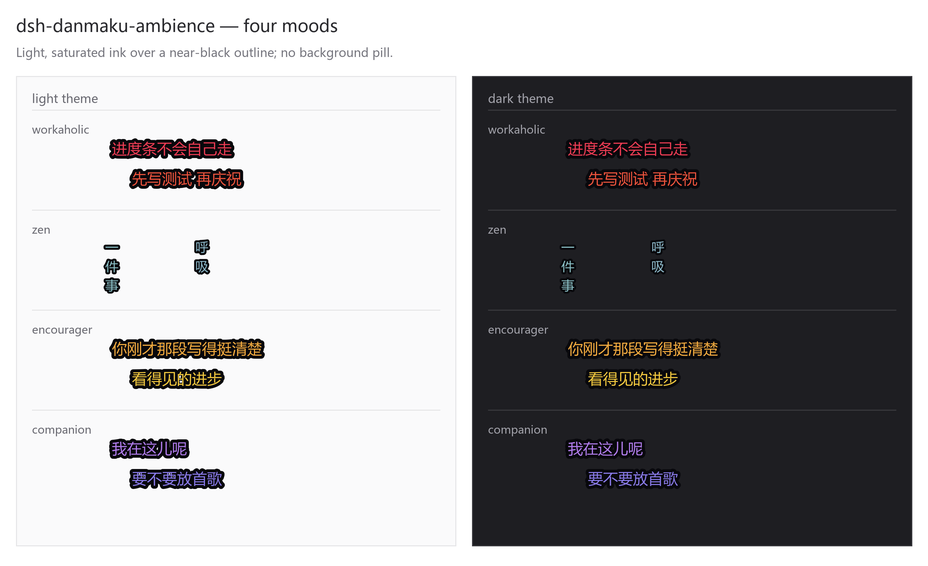
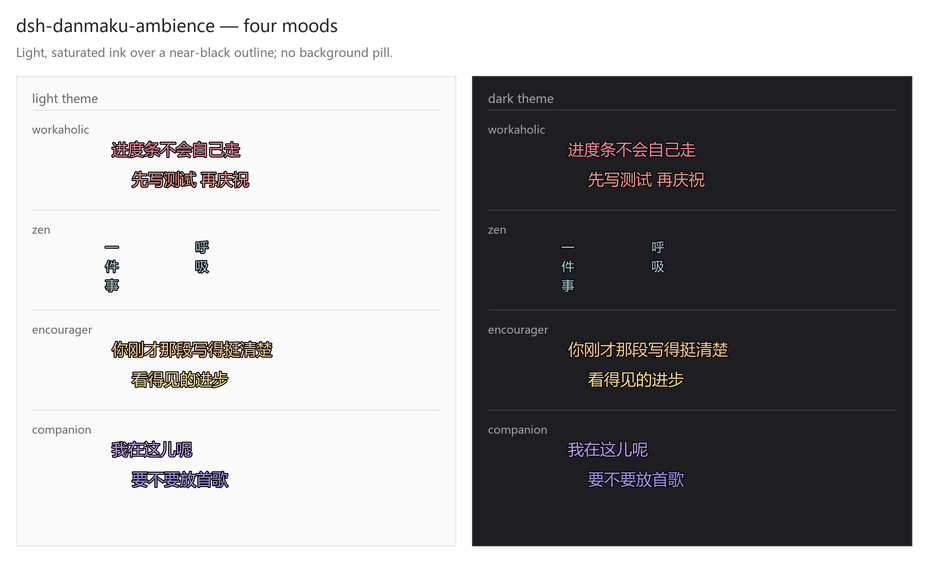
feat(1.0.1): legible ink, proportional stroke, leaner package
- ink lightness 58-70 -> 74-76, base size 15 -> 16px, workaholic 700 -> 600
- stroke: fixed 2.5px -> max(1px, 7.5% em); two-layer halo -> tight shadow
- default opacity .85 -> .92
- files: drop DESIGN.md, PUBLISH.md, catalog-entry.yml, preview.svg from the tarball
- regenerate preview.png/svg from the new values

diff --git a/client.js b/client.js
@@ -45,13 +45,13 @@ window.__ModuleLoader__.load({
         interval: 5000,
         lanes: 8,
         speed: 250,
-        fontSize: 15,
-        weight: 700,
+        fontSize: 16,
+        weight: 600,
         spacing: '0.01em',
         vertical: false,
         hues: [352, 8, 22, 340],
         sat: 82,
-        light: 58,
+        light: 74,
       },
       zen: {
         interval: 30000,
@@ -63,36 +63,36 @@ window.__ModuleLoader__.load({
         vertical: true,
         hues: [186, 196, 176],
         sat: 34,
-        light: 66,
+        light: 74,
       },
       encourager: {
         interval: 11000,
         lanes: 6,
         speed: 155,
-        fontSize: 15,
+        fontSize: 16,
         weight: 500,
         spacing: '0.02em',
         vertical: false,
         hues: [36, 46, 22, 100],
-        sat: 88,
-        light: 60,
+        sat: 86,
+        light: 74,
       },
       companion: {
         interval: 17000,
         lanes: 6,
         speed: 120,
-        fontSize: 15,
+        fontSize: 16,
         weight: 500,
         spacing: '0.03em',
         vertical: false,
         hues: [268, 248, 288, 216],
         sat: 72,
-        light: 70,
+        light: 76,
       },
     };
     const ORDER = ['workaholic', 'zen', 'encourager', 'companion'];
     // `scale` is a user multiplier on each mode's base font size.
-    const DEFAULT_STATE = { mode: 'encourager', density: 1, opacity: 0.85, scale: 1 };
+    const DEFAULT_STATE = { mode: 'encourager', density: 1, opacity: 0.92, scale: 1 };
     const DENSITY = { min: 0.4, max: 2.2, step: 0.1 };
     const OPACITY = { min: 0.2, max: 1, step: 0.05 };
     // Font scale: 0.7x .. 1.8x of the mode baseline, in 0.1 steps.
@@ -454,7 +454,10 @@ window.__ModuleLoader__.load({
         // `paint-order: stroke fill`; the blur is a halo that survives on
         // busy backgrounds such as code blocks.
         stroke: 'rgba(8,8,12,.92)',
-        glow: '0 0 3px rgba(0,0,0,.85), 0 0 8px rgba(0,0,0,.45)',
+        // One tight, barely-offset shadow instead of a wide two-layer blur: a
+        // big halo smears the glyph edge and reads as "blurry" at 15px, while
+        // the stroke already supplies the local backdrop.
+        glow: '0 1px 2px rgba(0,0,0,.55)',
       };
     }
 
@@ -859,11 +862,14 @@ window.__ModuleLoader__.load({
          transcript, gray sidebar, code blocks, or a dark theme. */
       .dmb-line{position:absolute;left:0;white-space:nowrap;
         color:var(--dmb-ink);
-        font-family:inherit;font-size:var(--dmb-size,15px);font-weight:var(--dmb-weight,500);
+        font-family:inherit;font-size:var(--dmb-size,16px);font-weight:var(--dmb-weight,500);
         letter-spacing:var(--dmb-spacing,0);line-height:1.45;
-        -webkit-text-stroke:2.5px var(--dmb-stroke,rgba(8,8,12,.92));
+        /* Proportional stroke: a fixed 2.5px ate ~17% of a 15px glyph, so the
+           fill read as a thin sliver. The ink is light now (L74), so the rim
+           only has to define the silhouette: ~7.5% of the em. */
+        -webkit-text-stroke:max(1px,calc(var(--dmb-size,16px) * .075)) var(--dmb-stroke,rgba(8,8,12,.92));
         paint-order:stroke fill;
-        text-shadow:var(--dmb-glow,0 0 3px rgba(0,0,0,.85));will-change:transform;
+        text-shadow:var(--dmb-glow,0 1px 2px rgba(0,0,0,.55));will-change:transform;
         animation-name:dmb-scroll;animation-timing-function:linear;animation-fill-mode:forwards}
       @keyframes dmb-scroll{
         0%{transform:translate3d(var(--dmb-from,100vw),0,0);opacity:0}
@@ -884,7 +890,7 @@ window.__ModuleLoader__.load({
       /* Punctuated zen copy (English) keeps its sentence shape as one line. */
       .dmb-run{white-space:nowrap;color:var(--dmb-ink);
         font-size:var(--dmb-size,13px);line-height:1.4;
-        -webkit-text-stroke:calc(var(--dmb-size,13px) * .1) var(--dmb-stroke,rgba(8,8,12,.82));
+        -webkit-text-stroke:max(.75px,calc(var(--dmb-size,13px) * .075)) var(--dmb-stroke,rgba(8,8,12,.82));
         paint-order:stroke fill;
         text-shadow:var(--dmb-glow,none)}
       /* The stroke tracks the font size so a scaled-up column keeps the same
@@ -893,7 +899,7 @@ window.__ModuleLoader__.load({
       .dmb-col-cell{display:block;width:1.3em;text-align:center;line-height:1.25;
         font-size:var(--dmb-size,13px);
         color:var(--dmb-ink);
-        -webkit-text-stroke:calc(var(--dmb-size,13px) * .12) var(--dmb-stroke,rgba(8,8,12,.82));
+        -webkit-text-stroke:max(.75px,calc(var(--dmb-size,13px) * .075)) var(--dmb-stroke,rgba(8,8,12,.82));
         paint-order:stroke fill;
         text-shadow:var(--dmb-glow,none)}
       @keyframes dmb-fall{

diff --git a/README.md b/README.md
@@ -32,7 +32,7 @@ Preferences are stored in `localStorage` and survive a reload.
 
 ## How the text stays readable
 
-Lines have no background pill. Each line is drawn in its mood hue with a near-black outline (`-webkit-text-stroke` plus `paint-order: stroke fill`) and a soft halo, so the copy stays legible over the white transcript, the gray sidebar, code blocks, and either theme. The worst ink-to-outline contrast across every hue is above 5:1.
+Lines have no background pill. Each line is a light, saturated ink (L74–76 in both themes) inside a near-black outline (`-webkit-text-stroke` at 7.5% of the font size, plus `paint-order: stroke fill`) with a tight shadow. The outline is what defines the glyph against the white transcript, the gray sidebar, and code blocks; the light ink is what stays visible over a dark theme. Worst ink-to-outline contrast across every hue is 7.7:1, and ink-to-dark-page is at least 6.4:1.
 
 Zen mode stacks one character per box rather than using `writing-mode: vertical-rl`, because vertical writing modes rely on Japanese glyph forms and misplace Chinese punctuation.
 
